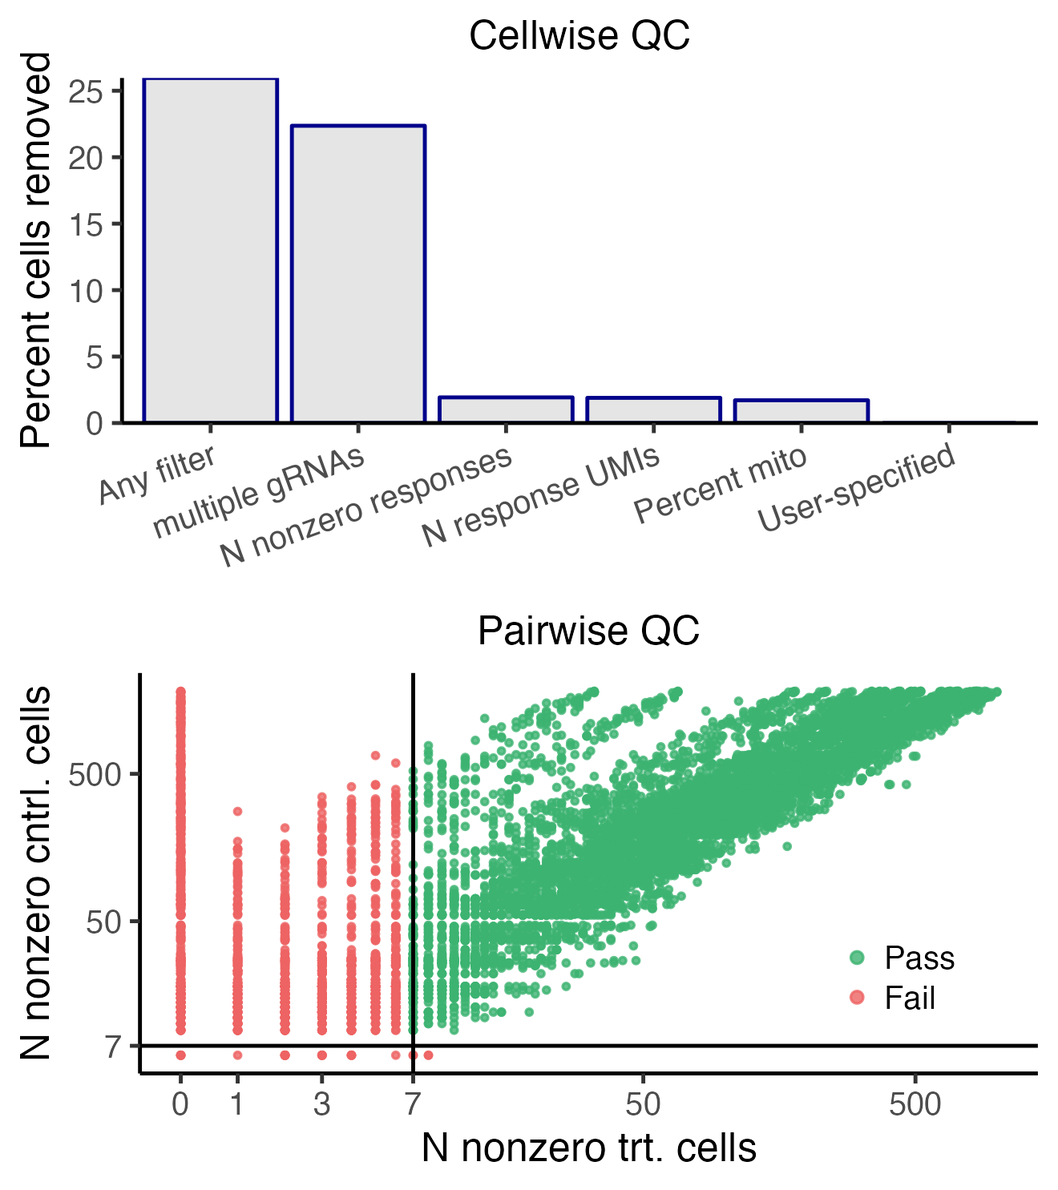
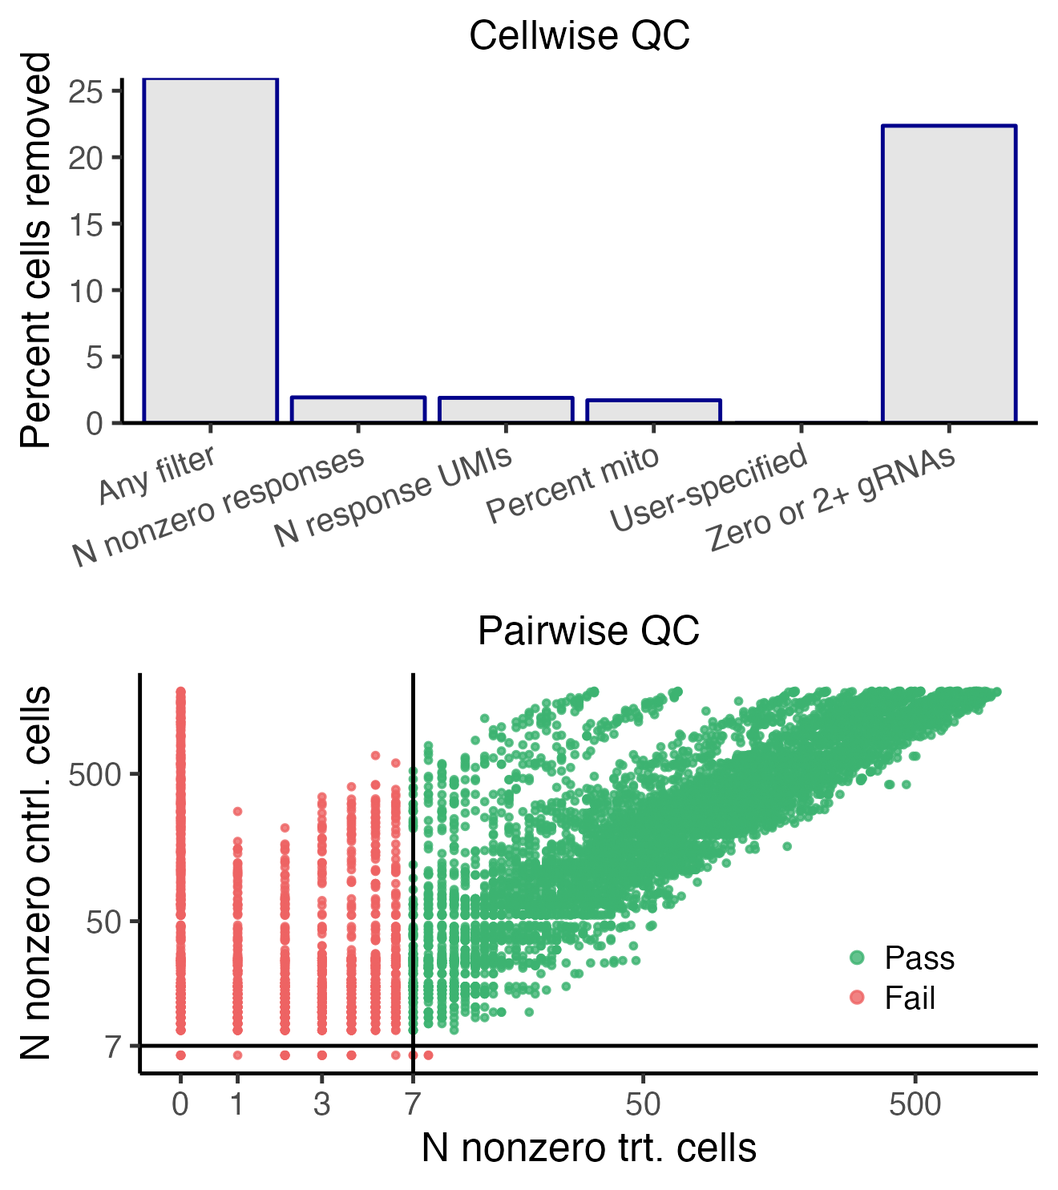
update discussion to include new cellwise qc, esp for max method

Changed region(s): [[0.0932, 0.0929, 0.9629, 0.4646], [0.2485, 0.0929, 0.4038, 0.3407], [0.0621, 0.4646, 0.0932, 0.4956]]

diff --git a/docs/set-analysis-parameters.html b/docs/set-analysis-parameters.html
@@ -321,7 +321,7 @@ window.Quarto = {
   <li><a href="#sec-set-analysis-parameters_control_group" id="toc-sec-set-analysis-parameters_control_group" class="nav-link" data-scroll-target="#sec-set-analysis-parameters_control_group"><span class="header-section-number">2.5</span> Control group</a></li>
   <li><a href="#sec-set_analysis_parameters_formula" id="toc-sec-set_analysis_parameters_formula" class="nav-link" data-scroll-target="#sec-set_analysis_parameters_formula"><span class="header-section-number">2.6</span> Formula</a></li>
   <li><a href="#sec-set_analysis_parameters_resampling_mech" id="toc-sec-set_analysis_parameters_resampling_mech" class="nav-link" data-scroll-target="#sec-set_analysis_parameters_resampling_mech"><span class="header-section-number">2.7</span> Resampling mechanism</a></li>
-  <li><a href="#sec-set_analysis_parameters_parametric_curve" id="toc-sec-set_analysis_parameters_parametric_curve" class="nav-link" data-scroll-target="#sec-set_analysis_parameters_parametric_curve"><span class="header-section-number">2.8</span> Fit parametric curve</a></li>
+  <li><a href="#sec-set_analysis_parameters_parametric_curve" id="toc-sec-set_analysis_parameters_parametric_curve" class="nav-link" data-scroll-target="#sec-set_analysis_parameters_parametric_curve"><span class="header-section-number">2.8</span> Resampling approximation</a></li>
   <li><a href="#sec-multiple_testing" id="toc-sec-multiple_testing" class="nav-link" data-scroll-target="#sec-multiple_testing"><span class="header-section-number">2.9</span> Multiple testing method and multiple testing <span class="math inline">\(\alpha\)</span></a></li>
   <li><a href="#setting-the-analysis-parameters" id="toc-setting-the-analysis-parameters" class="nav-link" data-scroll-target="#setting-the-analysis-parameters"><span class="header-section-number">2.10</span> Setting the analysis parameters</a></li>
   </ul></nav>
@@ -724,8 +724,8 @@ Attributes of the data:
 </table>
 <p>Resampling forms the foundation of statistical inference within the <code>sceptre</code> framework. In fact, “sceptre” is a loose acronym for “<strong>s</strong>ingle <strong>c</strong>ell <strong>p</strong>er<strong>t</strong>urbation analysis via <strong>re</strong>sampling.” The resampling machinery of <code>sceptre</code> is reasonably fast due to several algorithmic advances, including the technique of resampling score statistics, a novel sparsity-exploiting algorithm for computing GLM score tests, and algorithms for sharing compute across permutation tests.</p>
 </section><section id="sec-set_analysis_parameters_parametric_curve" class="level2" data-number="2.8"><h2 data-number="2.8" class="anchored" data-anchor-id="sec-set_analysis_parameters_parametric_curve">
-<span class="header-section-number">2.8</span> Fit parametric curve</h2>
-<p>As described above, for a given gRNA-response pair, <code>sceptre</code> computes an “observed” z-score <span class="math inline">\(z_\textrm{obs}\)</span> and a set of “null” z-scores <span class="math inline">\(\tilde z_1, \dots, \tilde z_B\)</span> (regardless of whether <code>resampling_mechanism</code> is set to <code>permutations</code> or <code>crt</code>). By default, <code>sceptre</code> fits a parametric density (specifically, a skew-normal density) to the distribution of null z-scores and then computes a p-value by evaluating the tail probability of the fitted density at the observed z-score <span class="math inline">\(z_\textrm{obs}\)</span> (see figure below). The parametric density functionality can be deactivated by setting <code>fit_parametric_curve</code> to <code>FALSE</code> in <code><a href="https://rdrr.io/pkg/sceptre/man/set_analysis_parameters.html">set_analysis_parameters()</a></code>, in which case a p-value is computed by directly comparing the observed z-score to the null z-scores.</p>
+<span class="header-section-number">2.8</span> Resampling approximation</h2>
+<p>As described above, for a given gRNA-response pair, <code>sceptre</code> computes an “observed” z-score <span class="math inline">\(z_\textrm{obs}\)</span> and a set of “null” z-scores <span class="math inline">\(\tilde z_1, \dots, \tilde z_B\)</span> (regardless of whether <code>resampling_mechanism</code> is set to <code>"permutations"</code> or <code>"crt"</code>). By default, <code>sceptre</code> fits a parametric density (specifically, a skew-normal density) to the distribution of null z-scores and then computes a p-value by evaluating the tail probability of the fitted density at the observed z-score <span class="math inline">\(z_\textrm{obs}\)</span> (see figure below). This default behavior corresponds to setting <code>resampling_approximation</code> to <code>"skew_normal"</code>. The parametric density functionality can be deactivated by setting <code>resampling_approximation</code> to <code>"no_approximation"</code> in <code><a href="https://rdrr.io/pkg/sceptre/man/set_analysis_parameters.html">set_analysis_parameters()</a></code>, in which case a p-value is computed by directly comparing the observed z-score to the null z-scores.</p>
 <div class="cell" data-layout-align="center">
 <div class="cell-output-display">
 <div class="quarto-figure quarto-figure-center">
@@ -734,7 +734,7 @@ Attributes of the data:
 </div>
 </div>
 </div>
-<p>When <code>fit_parametric_curve</code> is set to <code>FALSE</code>, <code>sceptre</code> must compute a greater number of “null” test statistics to maintain p-value precision. Thus, setting <code>fit_parametric_curve</code> to <code>FALSE</code> increases compute (in some cases substantially). We recommend setting <code>fit_parametric_curve</code> to <code>FALSE</code> only when the negative control p-values exhibit miscalibration (see <a href="run-calibration-check.html#sec-improving_calibration" class="quarto-xref"><span>Section 5.4</span></a>).</p>
+<p>When <code>resampling_approximation</code> is set to <code>"no_approximation"</code>, <code>sceptre</code> must compute a greater number of “null” test statistics to maintain p-value precision. Thus, setting <code>resampling_approximation</code> to <code>"no_approximation"</code> increases compute (in some cases substantially). We recommend setting <code>resampling_approximation</code> to <code>"no_approximation"</code> when the negative control p-values exhibit miscalibration (see <a href="run-calibration-check.html#sec-improving_calibration" class="quarto-xref"><span>Section 5.4</span></a>) and the number of pairs to be tested is less than ~10,000.</p>
 </section><section id="sec-multiple_testing" class="level2" data-number="2.9"><h2 data-number="2.9" class="anchored" data-anchor-id="sec-multiple_testing">
 <span class="header-section-number">2.9</span> Multiple testing method and multiple testing <span class="math inline">\(\alpha\)</span>
 </h2>

diff --git a/docs/run-calibration-check.html b/docs/run-calibration-check.html
@@ -563,24 +563,24 @@ Table&nbsp;5.1: Calibration quality as a (rough) function of the number of false
 <p>There are several concrete steps that users can take to improve the calibration of <code>sceptre</code>. We list five of the most important strategies here, ordered roughly from most to least promising. These strategies need not be applied one-at-a-time and instead can be mixed and matched.</p>
 <ol type="1">
 <li>
-<p><strong>Deactivate the parametric curve fitting functionality</strong>. <code>sceptre</code> by default computes the p-value for a given target-response pair by fitting a parametric curve (specifically, a skew-normal density) to the distribution of null test statistics and then evaluating the tail probability of the fitted curve at the observed test statistic (<a href="set-analysis-parameters.html#sec-set_analysis_parameters_parametric_curve" class="quarto-xref"><span>Section 2.8</span></a>). If the parametric curve provides a poor fit to the distribution of the null test statistics, the resulting p-value can be miscalibrated. Users can deactivate the parametric curve fitting functionality of <code>sceptre</code> and instead return an exact p-value by setting <code>fit_parametric_curve</code> to <code>FALSE</code> in <code><a href="https://rdrr.io/pkg/sceptre/man/set_analysis_parameters.html">set_analysis_parameters()</a></code>, as follows.</p>
+<p><strong>Deactivate the parametric curve fitting functionality</strong>. <code>sceptre</code> by default computes the p-value for a given target-response pair by fitting a parametric curve (specifically, a skew-normal density) to the distribution of null test statistics and then evaluating the tail probability of the fitted curve at the observed test statistic (<a href="set-analysis-parameters.html#sec-set_analysis_parameters_parametric_curve" class="quarto-xref"><span>Section 2.8</span></a>). If the parametric curve provides a poor fit to the distribution of the null test statistics, the resulting p-value can be miscalibrated. Users can deactivate the parametric curve fitting functionality of <code>sceptre</code> and instead return an exact p-value by setting <code>resampling_approximation</code> to <code>"no_approximation"</code> in <code><a href="https://rdrr.io/pkg/sceptre/man/set_analysis_parameters.html">set_analysis_parameters()</a></code>, as follows.</p>
 <div class="cell">
 <div class="sourceCode" id="cb10"><pre class="downlit sourceCode r code-with-copy"><code class="sourceCode R"><span><span class="va">sceptre_object_highmoi</span> <span class="op">&lt;-</span> <span class="va">sceptre_object_highmoi</span> <span class="op">|&gt;</span></span>
 <span>  <span class="fu"><a href="https://rdrr.io/pkg/sceptre/man/set_analysis_parameters.html">set_analysis_parameters</a></span><span class="op">(</span></span>
 <span>    discovery_pairs <span class="op">=</span> <span class="va">discovery_pairs</span>,</span>
 <span>    positive_control_pairs <span class="op">=</span> <span class="va">positive_control_pairs</span>,</span>
 <span>    side <span class="op">=</span> <span class="st">"left"</span>,</span>
-<span>    fit_parametric_curve <span class="op">=</span> <span class="cn">FALSE</span> <span class="co"># fit_parametric_curve set to FALSE</span></span>
+<span>    resampling_approximation <span class="op">=</span> <span class="st">"no_approximation"</span></span>
 <span>  <span class="op">)</span></span></code><button title="Copy to Clipboard" class="code-copy-button"><i class="bi"></i></button></pre></div>
 </div>
-<p>The calibration check, power check, and discovery analyses all run more slowly when <code>fit_parametric_curve</code> is set to <code>FALSE</code>, as <code>sceptre</code> must compute a greater number of null test statistics to preserve adequate precision of the p-values. Thus, setting <code>fit_parametric_curve</code> to <code>FALSE</code> may not be a feasible strategy for users seeking to test a large number (e.g., 10,000+) of pairs. Users should consider using the permutation test (<code>resampling_mechaism = "permutations"</code>) rather than the conditional randomization test (<code>resampling_mechanism = "crt"</code>) when setting <code>fit_parametric_curve</code> to <code>FALSE</code> to improve speed.</p>
+<p>The calibration check, power check, and discovery analyses all run more slowly when <code>resampling_approximation</code> is set to <code>"no_approximation"</code>, as <code>sceptre</code> must compute a greater number of null test statistics to preserve adequate precision of the p-values. Thus, setting <code>resampling_approximation</code> to <code>"no_approximation"</code> may not be a feasible strategy for users seeking to test a large number (e.g., 10,000+) of pairs. Users should consider using the permutation test (<code>resampling_mechaism = "permutations"</code>) rather than the conditional randomization test (<code>resampling_mechanism = "crt"</code>) when setting <code>resampling_approximation</code> to <code>"no_approximation"</code> to improve speed.</p>
 <div class="cell">
 <div class="sourceCode" id="cb11"><pre class="downlit sourceCode r code-with-copy"><code class="sourceCode R"><span><span class="va">sceptre_object_highmoi</span> <span class="op">&lt;-</span> <span class="va">sceptre_object_highmoi</span> <span class="op">|&gt;</span></span>
 <span>  <span class="fu"><a href="https://rdrr.io/pkg/sceptre/man/set_analysis_parameters.html">set_analysis_parameters</a></span><span class="op">(</span></span>
 <span>    discovery_pairs <span class="op">=</span> <span class="va">discovery_pairs</span>,</span>
 <span>    positive_control_pairs <span class="op">=</span> <span class="va">positive_control_pairs</span>,</span>
 <span>    side <span class="op">=</span> <span class="st">"left"</span>,</span>
-<span>    fit_parametric_curve <span class="op">=</span> <span class="cn">FALSE</span>,         <span class="co"># slows down the code</span></span>
+<span>    resampling_approximation <span class="op">=</span> <span class="st">"no_approximation"</span>, <span class="co"># slows down the code</span></span>
 <span>    resampling_mechanism <span class="op">=</span> <span class="st">"permutations"</span> <span class="co"># speeds up the code</span></span>
 <span>  <span class="op">)</span></span></code><button title="Copy to Clipboard" class="code-copy-button"><i class="bi"></i></button></pre></div>
 </div>

diff --git a/docs/pipeline-args.html b/docs/pipeline-args.html
@@ -446,7 +446,7 @@ process.queue = 'name of queue'</code></pre>
 </div>
 <p>We then can pass this formula object as an argument to the pipeline via <code>--formula_object $HOME"/formula_object.rds"</code>.</p>
 <ul>
-<li><p><code>--fit_parametric_curve</code>: a boolean (i.e., <code>true</code> or <code>false</code>) value indicating whether to fit a parametric curve to the null distribution of test statistics (see <a href="set-analysis-parameters.html#sec-set_analysis_parameters_parametric_curve" class="quarto-xref"><span>Section 2.8</span></a>).</p></li>
+<li><p><code>--resampling_approximation</code>: the approximation to use to the null distribution of test statistics, one of <code>skew_normal</code> or <code>no_approximation</code> (see <a href="set-analysis-parameters.html#sec-set_analysis_parameters_parametric_curve" class="quarto-xref"><span>Section 2.8</span></a>).</p></li>
 <li><p><code>--multiple_testing_method</code>: the multiple testing correction procedure to adjust the p-values, one of <code>BH</code>, <code>bonferroni</code>, <code>holm</code>, <code>hochberg</code>, <code>hommel</code>, <code>BY</code>, <code>fdr</code>, or <code>none</code> (see <a href="set-analysis-parameters.html#sec-multiple_testing" class="quarto-xref"><span>Section 2.9</span></a>).</p></li>
 <li><p><code>--multiple_testing_alpha</code>: the nominal level of the multiple testing procedure. <code>multiple_testing_alpha</code> should a number in the interval [0,1] (for example <code>0.1</code> or <code>0.05</code>; see <a href="set-analysis-parameters.html#sec-multiple_testing" class="quarto-xref"><span>Section 2.9</span></a>).</p></li>
 <li>
@@ -472,10 +472,13 @@ process.queue = 'name of queue'</code></pre>
 <li><p><code>--probability_threshold</code>: the value at which the posterior perturbation probability of each cell is thresholded to assign the gRNA to cells. <code>probability_threshold</code> should be a number in the interval [0,1] (for example <code>0.5</code> or <code>0.8</code>).</p></li>
 <li><p><code>--grna_assignment_formula</code>: the formula to adjust for covariates in the gRNA mixture model. This argument works similarly to the <code>formula_object</code> argument (described above).</p></li>
 </ul>
-<p>Next, <code>umi_fraction_threshold</code> and <code>threshold</code> relate to the “maximum” (<a href="assign-grnas.html#sec-maximum_method" class="quarto-xref"><span>Section 3.3.2</span></a>) and “thresholding” (<a href="assign-grnas.html#sec-thresholding_method" class="quarto-xref"><span>Section 3.3.3</span></a>) assignment method, respectively.</p>
+<p>The following two arguments relate to the “maximum” assignment strategy (<a href="assign-grnas.html#sec-maximum_method" class="quarto-xref"><span>Section 3.3.2</span></a>).</p>
 <ul>
-<li>
-<code>--umi_fraction_threshold</code>: the value below which a cell is flagged as containing multiple gRNAs if the maximally expressed gRNA constitutes this fraction of the UMIs in the cell. <code>umi_fraction_threshold</code> should be a number in the interval [0,1].</li>
+<li><p><code>--umi_fraction_threshold</code>: a cell is flagged as containing multiple gRNAs if the maximally expressed gRNA constitutes less than <code>umi_fraction_threshold</code> of the UMIs in that cell. <code>umi_fraction_threshold</code> should be a number in the interval [0,1].</p></li>
+<li><p><code>--min_grna_n_umis_threshold</code>: a cell is flagged as containing zero gRNAs if the total UMI count across gRNAs (i.e., <code>n_grna_umis</code>) in that cell is less than <code>min_grna_n_umis_threshold</code>. <code>min_grna_n_umis_threshold</code> should be a non-negative integer.</p></li>
+</ul>
+<p>The final argument relates to the “thresholding” assignment method (<a href="assign-grnas.html#sec-thresholding_method" class="quarto-xref"><span>Section 3.3.3</span></a>).</p>
+<ul>
 <li>
 <code>--threshold</code>: the threshold used to assign gRNAs to cells in the context of the thresholding method. <code>threshold</code> should be a positive integer.</li>
 </ul>
@@ -580,7 +583,7 @@ process.queue = 'name of queue'</code></pre>
 <span>  <span class="fu"><a href="https://rdrr.io/pkg/sceptre/man/set_analysis_parameters.html">set_analysis_parameters</a></span><span class="op">(</span>discovery_pairs <span class="op">=</span> <span class="va">discovery_pairs</span><span class="op">)</span> <span class="op">|&gt;</span></span>
 <span>  <span class="fu"><a href="https://rdrr.io/pkg/sceptre/man/run_discovery_analysis.html">run_discovery_analysis</a></span><span class="op">(</span><span class="op">)</span></span></code><button title="Copy to Clipboard" class="code-copy-button"><i class="bi"></i></button></pre></div>
 </div>
-<p>See <a href="import-data.html#sec-import_data_odm_ch_1" class="quarto-xref"><span>Section 1.4</span></a> for more information about creating an <code>ondisc</code>-backed <code>sceptre_object</code>.</p>
+<p>See <a href="import-data.html#sec-import_data_odm_ch_1" class="quarto-xref"><span>Section 1.5</span></a> for more information about creating an <code>ondisc</code>-backed <code>sceptre_object</code>.</p>
 
 
 </section></main><!-- /main --><script id="quarto-html-after-body" type="application/javascript">

diff --git a/docs/run-qc.html b/docs/run-qc.html
@@ -475,7 +475,7 @@ window.Quarto = {
 </div>
 </div>
 </div>
-<p>We described in <a href="sceptre.html#sec-sceptre_qc" class="quarto-xref"><span>Section 4</span></a> of <em>The whole game</em> how to interpret this figure. The top panel displays the percentage of cells removed (vertical axis) as a result of applying the different cellwise QC filters (horizontal axis). For example, over 20<span class="math inline">\(\%\)</span> of cells were removed because they contain multiple gRNAs, and about 2<span class="math inline">\(\%\)</span> of cells were removed because they exhibit extremely high or extremely values for <code>response_n_nonzero</code>. Note that the “multiple gRNAs” filter in general is applied only to low-MOI data. Next, the bottom panel plots the set of discovery target-response pairs, where the vertical (resp., horizontal) position of a given pair indicates its <code>n_nonzero_cntrl</code> (resp., <code>n_nonzero_trt</code>) value. Pairs with a sufficiently large value for <code>n_nonzero_cntrl</code> <em>and</em> <code>n_nonzero_trt</code> (colored in green) pass pairwise QC; all other pairs are removed.</p>
+<p>We described in <a href="sceptre.html#sec-sceptre_qc" class="quarto-xref"><span>Section 4</span></a> of <em>The whole game</em> how to interpret this figure. The top panel displays the percentage of cells removed (vertical axis) as a result of applying the different cellwise QC filters (horizontal axis). For example, over 20<span class="math inline">\(\%\)</span> of cells were removed because they contain zero or 2+ gRNAs, and about 2<span class="math inline">\(\%\)</span> of cells were removed because they exhibit extremely high or extremely values for <code>response_n_nonzero</code>. Note that the “zero or 2+ gRNAs” filter is applied only to low-MOI data. Next, the bottom panel plots the set of discovery target-response pairs, where the vertical (resp., horizontal) position of a given pair indicates its <code>n_nonzero_cntrl</code> (resp., <code>n_nonzero_trt</code>) value. Pairs with a sufficiently large value for <code>n_nonzero_cntrl</code> <em>and</em> <code>n_nonzero_trt</code> (colored in green) pass pairwise QC; all other pairs are removed.</p>
 <p>We additionally can call <code><a href="https://rdrr.io/pkg/sceptre/man/plot_covariates.html">plot_covariates()</a></code> on a <code>sceptre_object</code> <em>after</em> <code><a href="https://rdrr.io/pkg/sceptre/man/run_qc.html">run_qc()</a></code> has been called on the <code>sceptre_object</code>. In this case the cellwise QC thresholds supplied to <code><a href="https://rdrr.io/pkg/sceptre/man/run_qc.html">run_qc()</a></code> are superimposed as vertical lines on the plot; the remaining arguments to <code><a href="https://rdrr.io/pkg/sceptre/man/plot_covariates.html">plot_covariates()</a></code> (e.g., <code>response_n_umis_range</code>, etc.) are ignored. Finally, we can call <code><a href="https://rdrr.io/r/base/print.html">print()</a></code> on <code>sceptre_object_lowmoi</code> to print a summary of the analysis status. The summary contains information about cellwise and pairwise QC; see the first entry under the “Attributes of the data” field and the second two entries under the “Analysis parameters” field.</p>
 <div class="cell">
 <div class="sourceCode" id="cb8"><pre class="downlit sourceCode r code-with-copy"><code class="sourceCode R"><span><span class="fu"><a href="https://rdrr.io/r/base/print.html">print</a></span><span class="op">(</span><span class="va">sceptre_object_lowmoi</span><span class="op">)</span></span></code><button title="Copy to Clipboard" class="code-copy-button"><i class="bi"></i></button></pre></div>
@@ -506,7 +506,7 @@ Analysis parameters:
     • Control group: non-targeting cells
     • Resampling mechanism: permutations
     • gRNA integration strategy: union
-    • Fit parametric curve: TRUE
+    • Resampling approximation: skew normal
     • Multiple testing adjustment: BH at level 0.1
     • N nonzero treatment cells threshold: 7
     • N nonzero control cells threshold: 7

diff --git a/docs/assign-grnas.html b/docs/assign-grnas.html
@@ -469,7 +469,7 @@ window.Quarto = {
 <span>  method <span class="op">=</span> <span class="st">"maximum"</span></span>
 <span><span class="op">)</span></span></code><button title="Copy to Clipboard" class="code-copy-button"><i class="bi"></i></button></pre></div>
 </div>
-<p>The maximum method allows for one optional argument: <code>umi_fraction_threshold</code> (default: <code>umi_fraction_threshold = 0.8</code>). Cells for which the maximally expressed gRNA constitutes fewer than <code>umi_fraction_threshold</code> of the UMIs in that cell are flagged as containing multiple gRNAs. (Cells containing multiple gRNAs are removed as part of low-MOI quality control step, as discussed in <a href="run-qc.html" class="quarto-xref"><span>Chapter 4</span></a>). For example, if the maximally expressed gRNA in a given cell makes up 0.64 (or 64<span class="math inline">\(\%\)</span>) of the UMIs in that cell, then that cell is flagged as containing multiple gRNAs and is removed during quality control (assuming that <code>umi_fraction_threshold = 0.8</code>).</p>
+<p>An advantage of the maximum method relative to the mixture method is that the former is model-free (and thus often more robust). However, when using the maximum method, one must take care to identify cells that contain zero gRNAs or multiple gRNAs (so that these cells can be removed as part of cellwise quality control). In this context the maximum method allows for two optional arguments: <code>umi_fraction_threshold</code> (default: <code>umi_fraction_threshold = 0.8</code>) and <code>min_grna_n_umis_threshold</code> (default: <code>min_grna_n_umis_threshold = 5</code>). Cells for which the maximally expressed gRNA constitutes fewer than <code>umi_fraction_threshold</code> of the UMIs in that cell are flagged as containing multiple gRNAs. For example, if the maximally expressed gRNA in a given cell makes up 0.64 (or 64<span class="math inline">\(\%\)</span>) of the UMIs in that cell, then that cell is flagged as containing multiple gRNAs (assuming that <code>umi_fraction_threshold = 0.8</code>). Next, cells for which the total gRNA UMI count (i.e., <code>n_grna_umis</code>) is less than <code>min_grna_n_umis_threshold</code> are flagged as containing zero gRNAs. Cells containing multiple gRNAs or zero gRNAs are removed as part of low-MOI quality control step, as discussed in <a href="run-qc.html" class="quarto-xref"><span>Chapter 4</span></a>.</p>
 </section><section id="sec-thresholding_method" class="level3" data-number="3.3.3"><h3 data-number="3.3.3" class="anchored" data-anchor-id="sec-thresholding_method">
 <span class="header-section-number">3.3.3</span> Thresholding method</h3>
 <p>The third method for assigning gRNAs to cells is the <code>"thresholding"</code> method; this method is available in both low- and high-MOI settings. The thresholding method assigns a gRNA to a cell if the UMI count of the gRNA in the cell is greater than or equal to some integer threshold (by default 5). We apply the <code>"thresholding"</code> method to both CRISPRi and CRISPRko datasets as follows.</p>
@@ -564,7 +564,7 @@ Analysis parameters:
     • Control group: non-targeting cells
     • Resampling mechanism: permutations
     • gRNA integration strategy: union
-    • Fit parametric curve: TRUE
+    • Resampling approximation: skew normal
     • Multiple testing adjustment: BH at level 0.1
     • N nonzero treatment cells threshold: not specified
     • N nonzero control cells threshold: not specified
